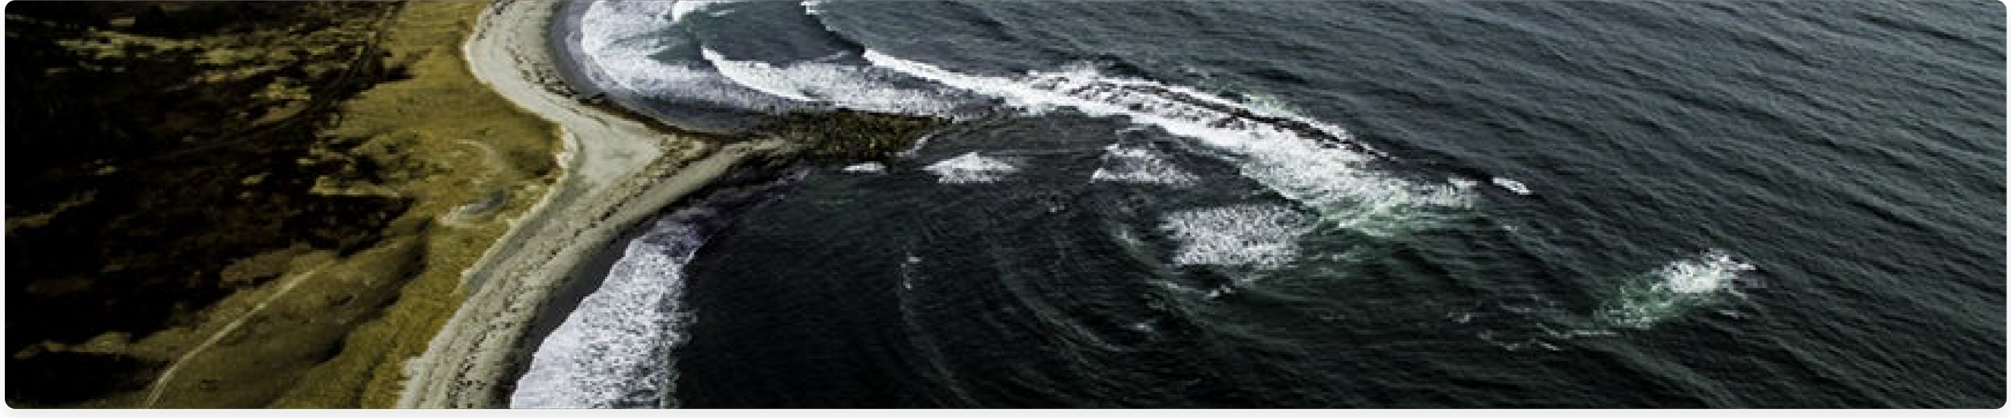
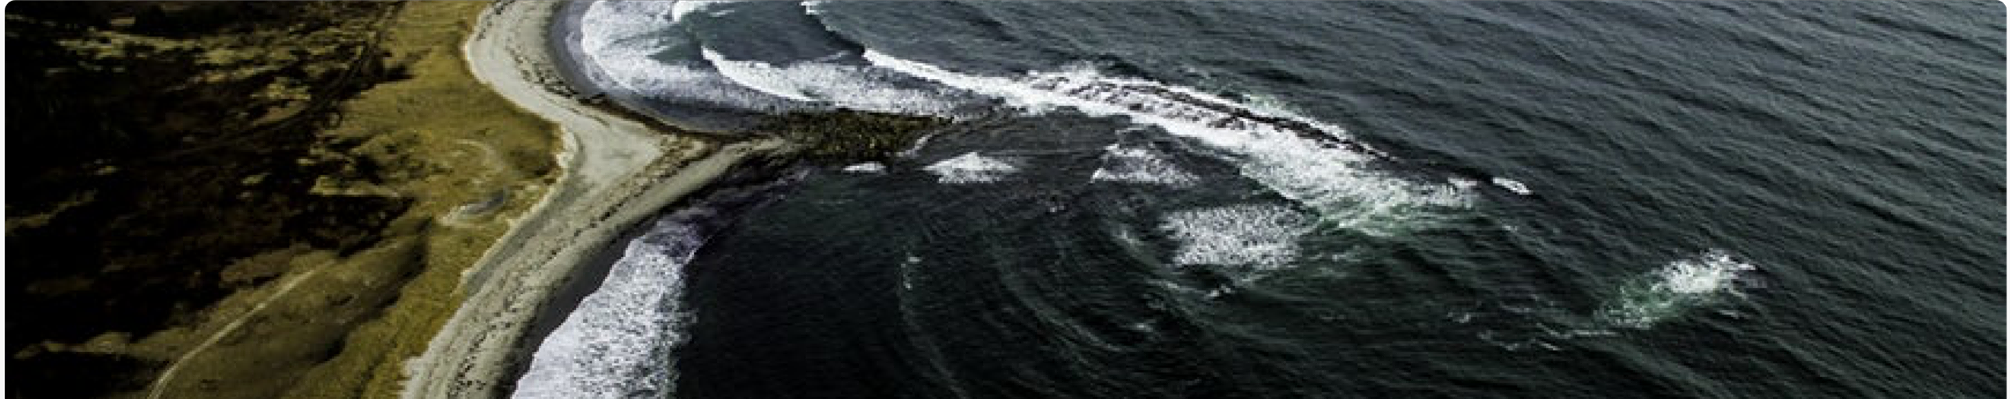
Almost whole first part styling finished

diff --git a/index.html b/index.html
@@ -60,19 +60,20 @@
 					</div>
 				</article>
 				<article class="recent-article">
-					<img src="images/article.png" alt="Article Image">
+					<img src="images/article2.png" alt="Article Image">
 					<div class="article-box">
-						<h3>Travel Reviews</h3>
-						<h2>Off-road adventures in Madagascar</h2>
-						<p>While the lemurs of Madagascar may understandably be the country’s major draw there is so much more to discover on what is the world’s fourth largest island.</p>
+						<h3>TRIP SUGGESTIONS</h3>
+						<h2>Perfect places to visit for Architecture enthusiasts</h2>
+						<p>Architecture is a very complex and continuously changing way of life. It is not just a field of study or a job, it allows you to create, develop and evolve.
+						and provides never-ending resources and challenges at every step so that you can grow with every project that you takes</p>
 					</div>
 				</article>
 				<article class="recent-article">
-					<img src="images/article.png" alt="Article Image">
+					<img src="images/article3.png" alt="Article Image">
 					<div class="article-box">
 						<h3>Travel Reviews</h3>
-						<h2>Off-road adventures in Madagascar</h2>
-						<p>While the lemurs of Madagascar may understandably be the country’s major draw there is so much more to discover on what is the world’s fourth largest island.</p>
+						<h2>The most beautiful night in Iceland</h2>
+						<p>After days of cold, cloud and rain we packed up for our last night in Iceland. We had come to meet Aurora but as many will know it’s not guaranteed. There had been nothing more than a hint of green in the sky for 6 days. But some of the most beautiful things in life happen when we least expect it. </p>
 					</div>
 				</article>
 			</div>

diff --git a/CSS/style.css b/CSS/style.css
@@ -53,6 +53,7 @@ li {
 	width: 100%;
 	z-index: 0;
 	object-fit: cover;
+	border-radius: 15px 15px;
 }
 .cover-article {
 	background-color: rgb(24 60 119 / 0.3);
@@ -162,6 +163,9 @@ li {
 	display: inline-block;
 	color: #404040;
 	font-size: 15px;
+	height: 46px;
+	line-height: 21px;
+	overflow:hidden;
 }
 .article-box h3 {
 	color: #404040;
